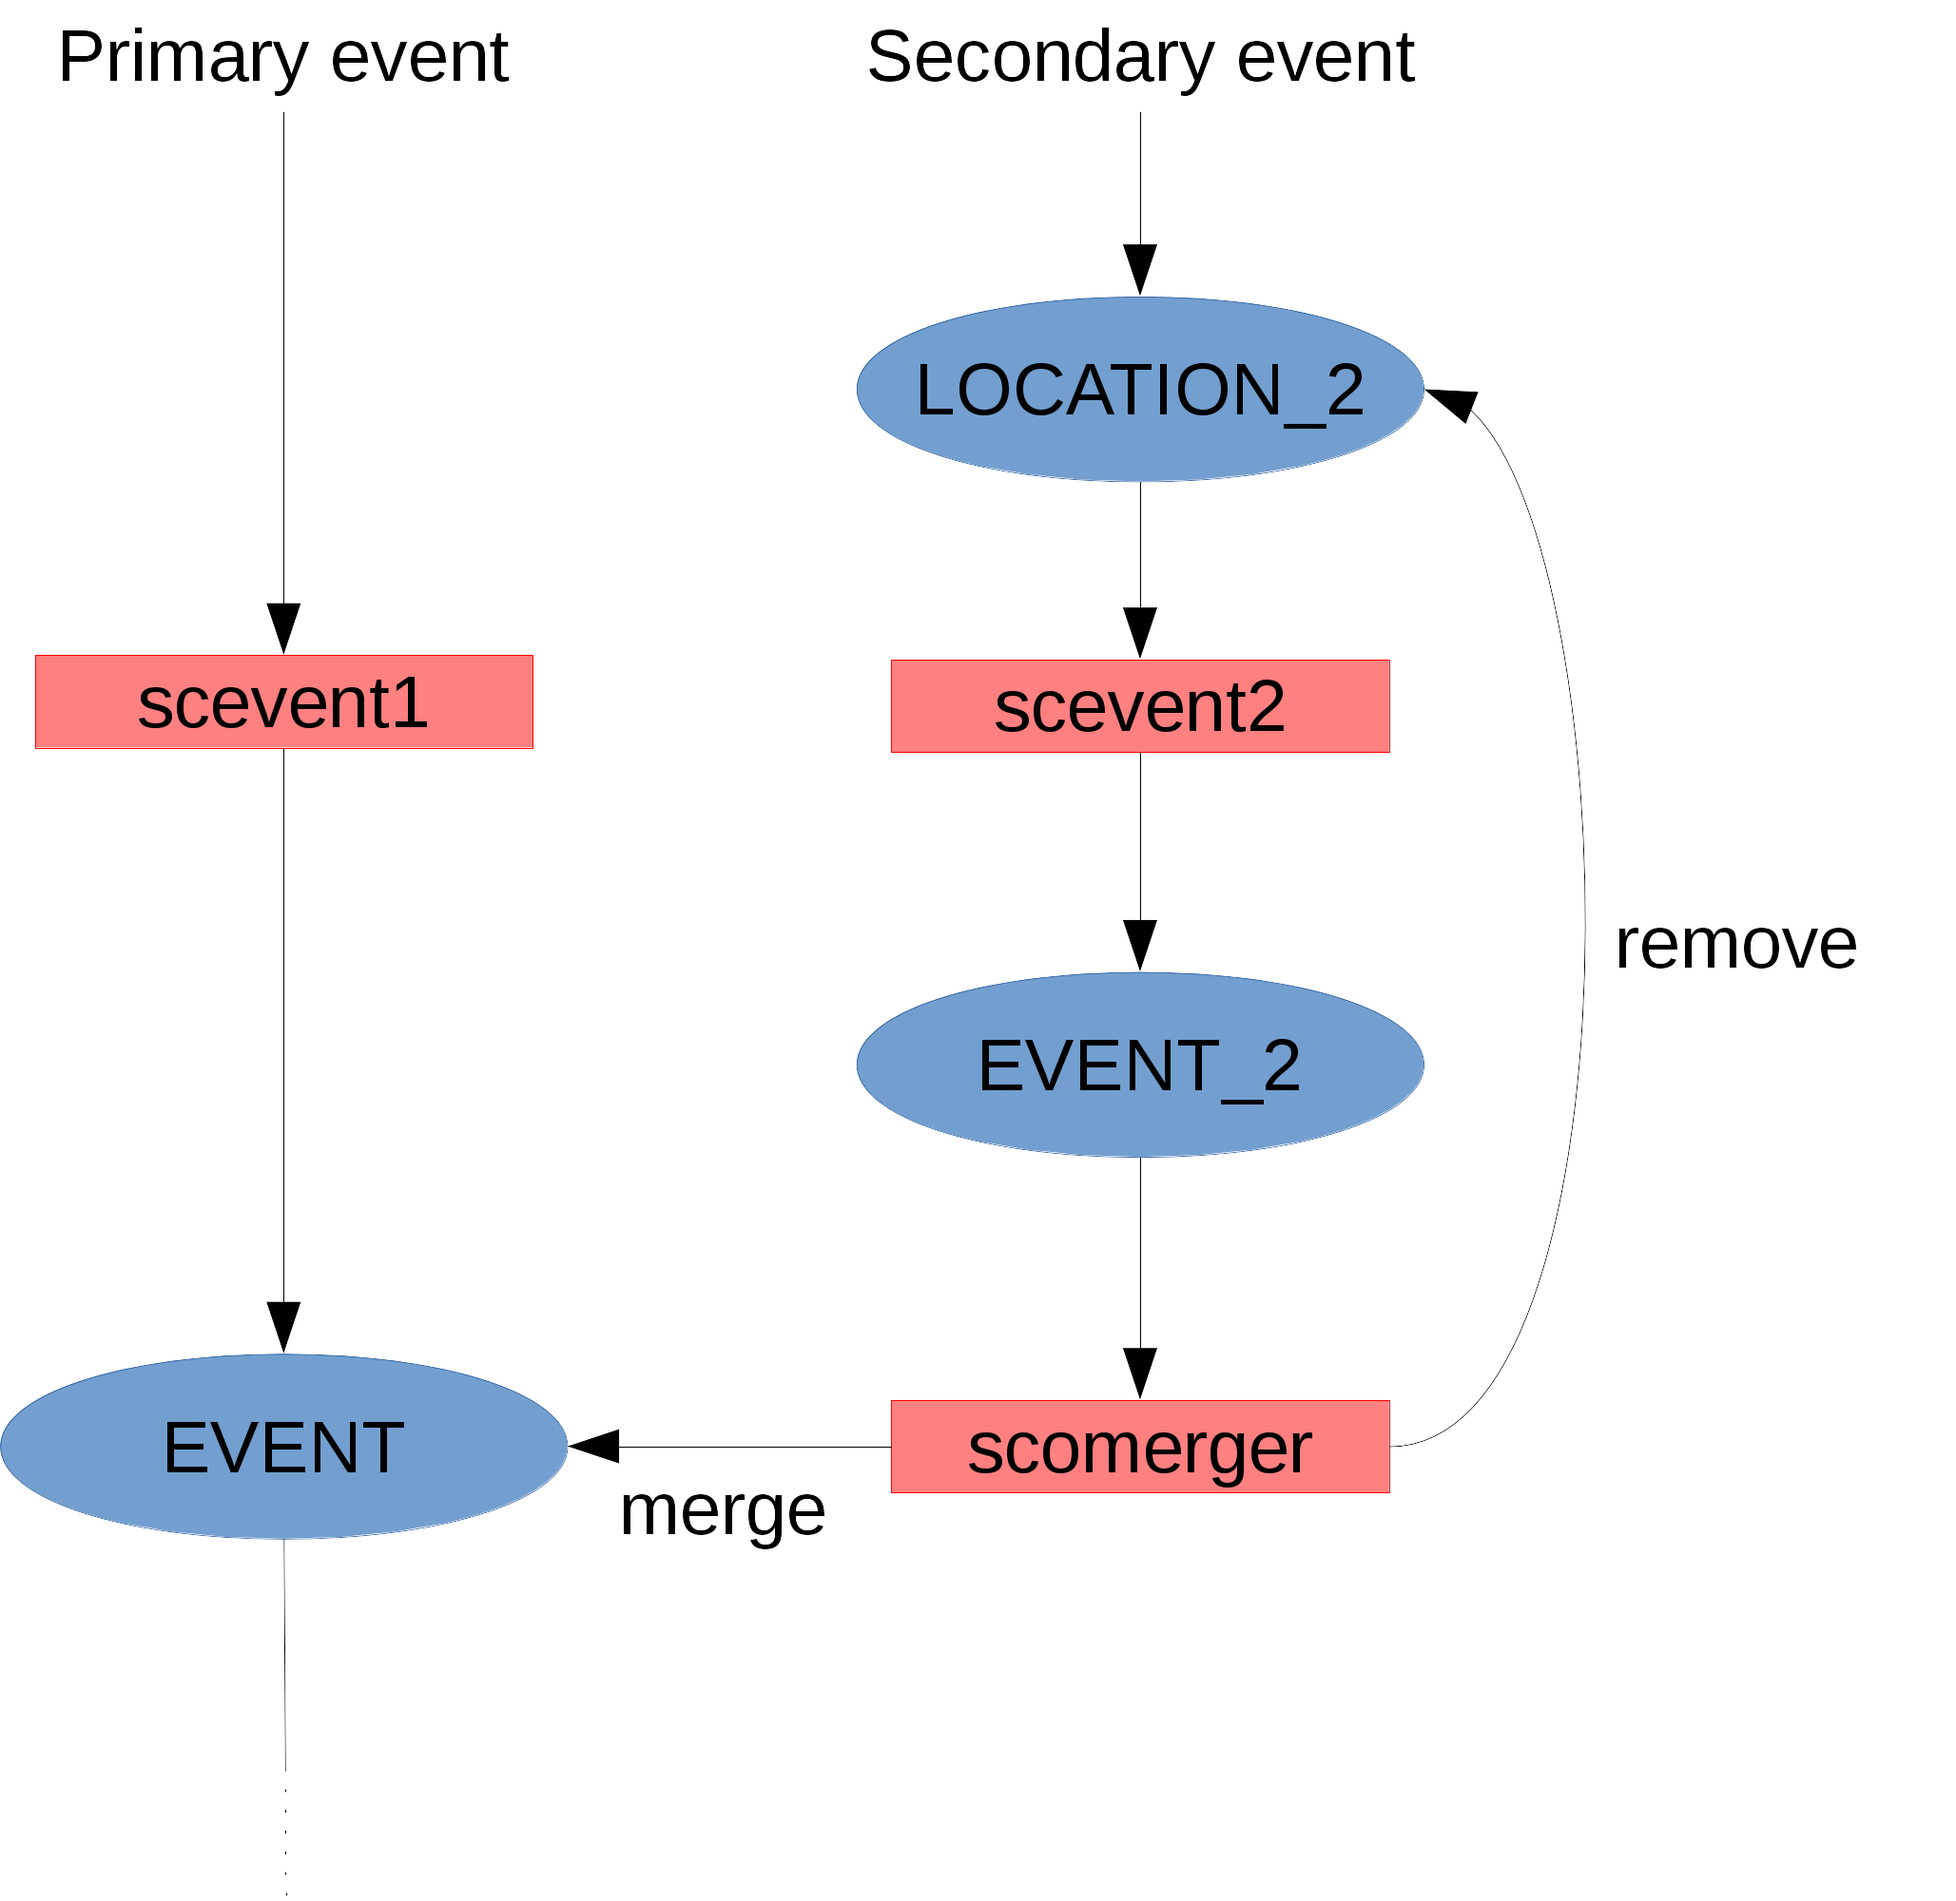
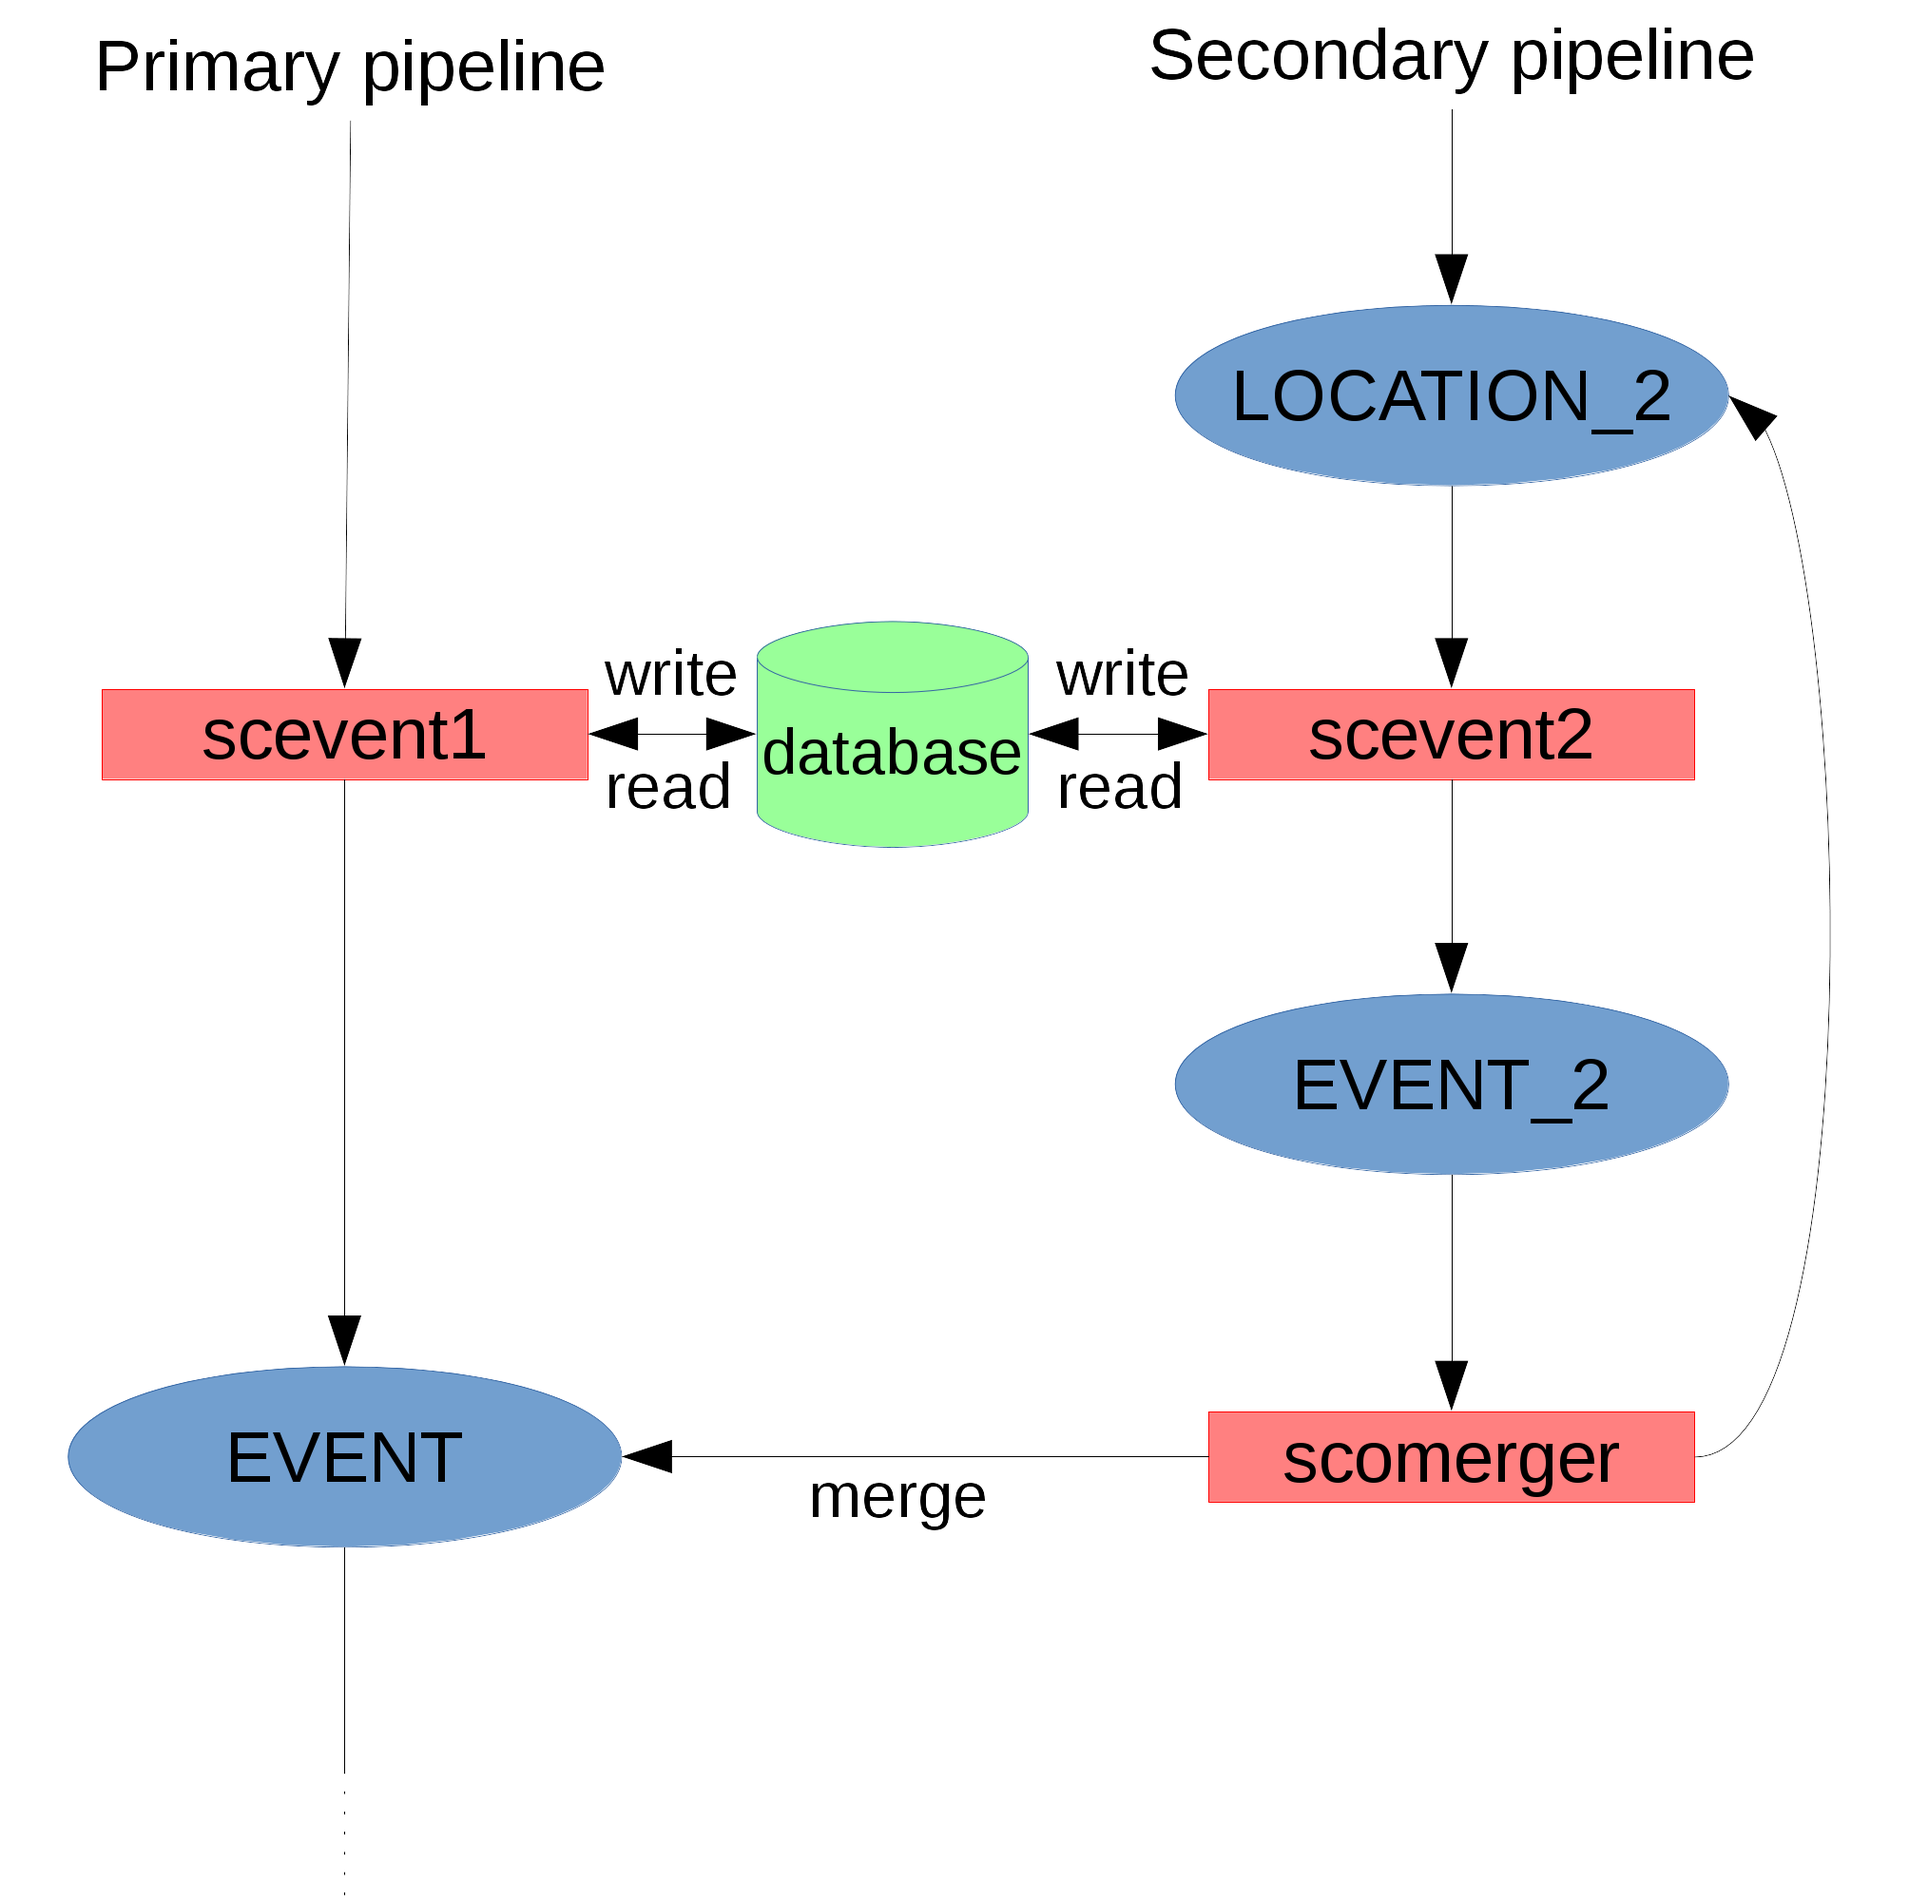
Improve the README

diff --git a/README.md b/README.md
@@ -1,33 +1,41 @@
 SCOMERGER
 =========
 
-`scomerger` is a seiscomp3 application which aims to merge origins belonging to the same event and from 2 differents authors (*primary* and *secondary*). A new origin is created with arrivals from both origins and then a relocation (LocSAT) is done.
+`scomerger` is a seiscomp3 application which aims to merge origins belonging
+to the same event and from 2 differents authors (*primary* and *secondary*). A
+new origin is created with arrivals from both origins and then a relocation
+(LocSAT) is done.
 
 `scomerger` works like this:
 
 - it listens to `EVENT` messages from `scevent`,
 - when receiving a `EVENT` message :
 
-	- if the preferred origin is already a merged origin, `scomerger` send a message to scevent 
-	  to remove this merged origin. `scevent` selects then a new prefered origin and sends
-	  a new `EVENT` message (which will be received by `scomerger`).
-	- if the preferred origin is from the *primary* author, `scomerger` merges the origin from
-  	  the *primary* author with the *secondary* one. A new origin is created with the arrivals of
-     both origins and relocated with `LOCSAT` (magnitude is not yet updated for the moment). 
-   - `scomerger` send the new origin message and lets `scevent` associated it to the corresponding 	  event and select the new prefered origin.
+    - if the preferred origin is already a merged origin, `scomerger` send a
+	  message to scevent to remove this merged origin. `scevent` selects then
+	  a new preferred origin and sends a new `EVENT` message (which will be
+	  received by `scomerger`).
+	- if the preferred origin is from the *primary* author, `scomerger` merges
+	  the origin from the *primary* author with the *secondary* one. A new
+	  origin is created with the arrivals of both origins and relocated with
+	  `LOCSAT` (magnitude is not yet updated for the moment).
+    - `scomerger` send a message to `scevent` to create the new origin in the
+	  database. An `originreference` is created as well to associate the origin
+	  to the event. `scevent` selects also a new preferred origin.
 
   > **Warning**
   >
   > Merged origin has **scomerger** as AUTHOR.
   >
-  > Origins comping from *secondary* author|pipeline must be created after *primary* one.
-  
+  > Origins comping from *secondary* author|pipeline must be created after
+  > *primary* one.
+
   > Every modifications of the database must be done by `scevent`. That's why
   > `scomerger` send messages to it.
 
-`scomerger` was designed to work separately from the mainstream (use a dedicated pipeline) to avoid nested
-messages. `scomerger` indeed listen `EVENT` messaging group but also send
-messages to it.
+`scomerger` was designed to work separately from the mainstream (use a
+dedicated pipeline) to avoid nested messages. `scomerger` indeed listen
+`EVENT` messaging group but also send messages to it.
 
 ![Schéma](docs/schema.png)
 
